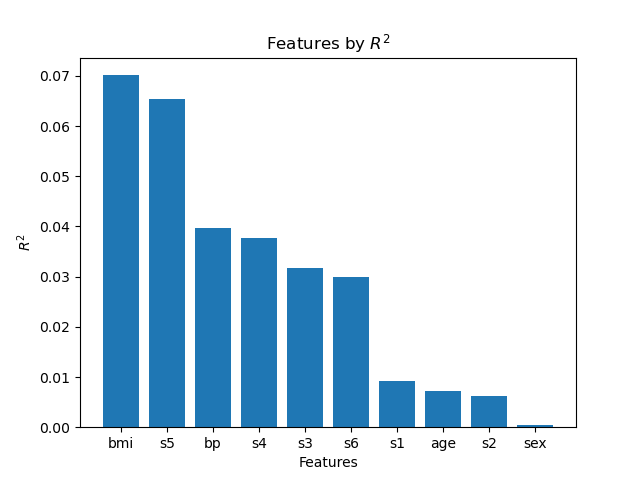
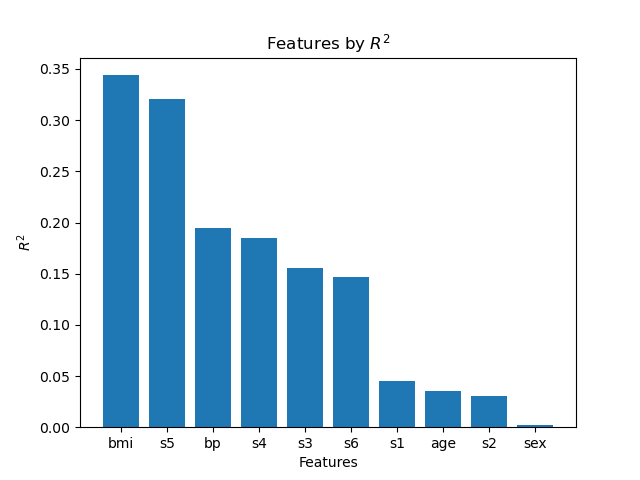
made a bit more progress on q1 and q2

diff --git a/src/q1.py b/src/q1.py
@@ -17,15 +17,17 @@ r_squared_values = {}
 #     r_squared_values[item] = results.rsquared
 
 for item in df.feature_names:
-    x = df.data[item]
-    y = df.target
+    x = df.data[item].values.reshape(-1,1)
+    #print(x.shape)
+    y = df.target.values.reshape(-1,1)
+    #print(y.shape)
     model = LinearRegression()
     results = model.fit(x,y)
-    r_squared_values[item] = results.score()
+    r_squared_values[item] = results.score(x,y)
 
 sorted_r_squared_values = dict(sorted(r_squared_values.items(), key=lambda x:x[1],reverse=True))
 
-print(sorted_r_squared_values)
+#print(sorted_r_squared_values)
 
 plt.bar(range(len(sorted_r_squared_values)), 
 list(sorted_r_squared_values.values()), tick_label=list(sorted_r_squared_values.keys()))
@@ -33,7 +35,7 @@ plt.title("Features by $R^{2}$")
 plt.xlabel("Features")
 plt.ylabel("$R^{2}$")
 plt.savefig("figs/features_by_r_squared")
-plt.show()
+#plt.show()
 
 # plt.scatter(df.data['bmi'], df.target)
 # plt.show()

diff --git a/src/q2.py b/src/q2.py
@@ -3,6 +3,12 @@ import numpy as np
 from sklearn.datasets import load_diabetes
 import statsmodels.api as sm
 import matplotlib.pyplot as plt
+from sklearn.linear_model import LogisticRegression
+from sklearn.linear_model import LinearRegression
 from sklearn.feature_selection import SequentialFeatureSelector
 
-df = load_diabetes(as_frame=True)
+from q1 import df
+
+selector = SequentialFeatureSelector(estimator=LinearRegression())
+selector.fit(df)
+print(selector.get_support())
